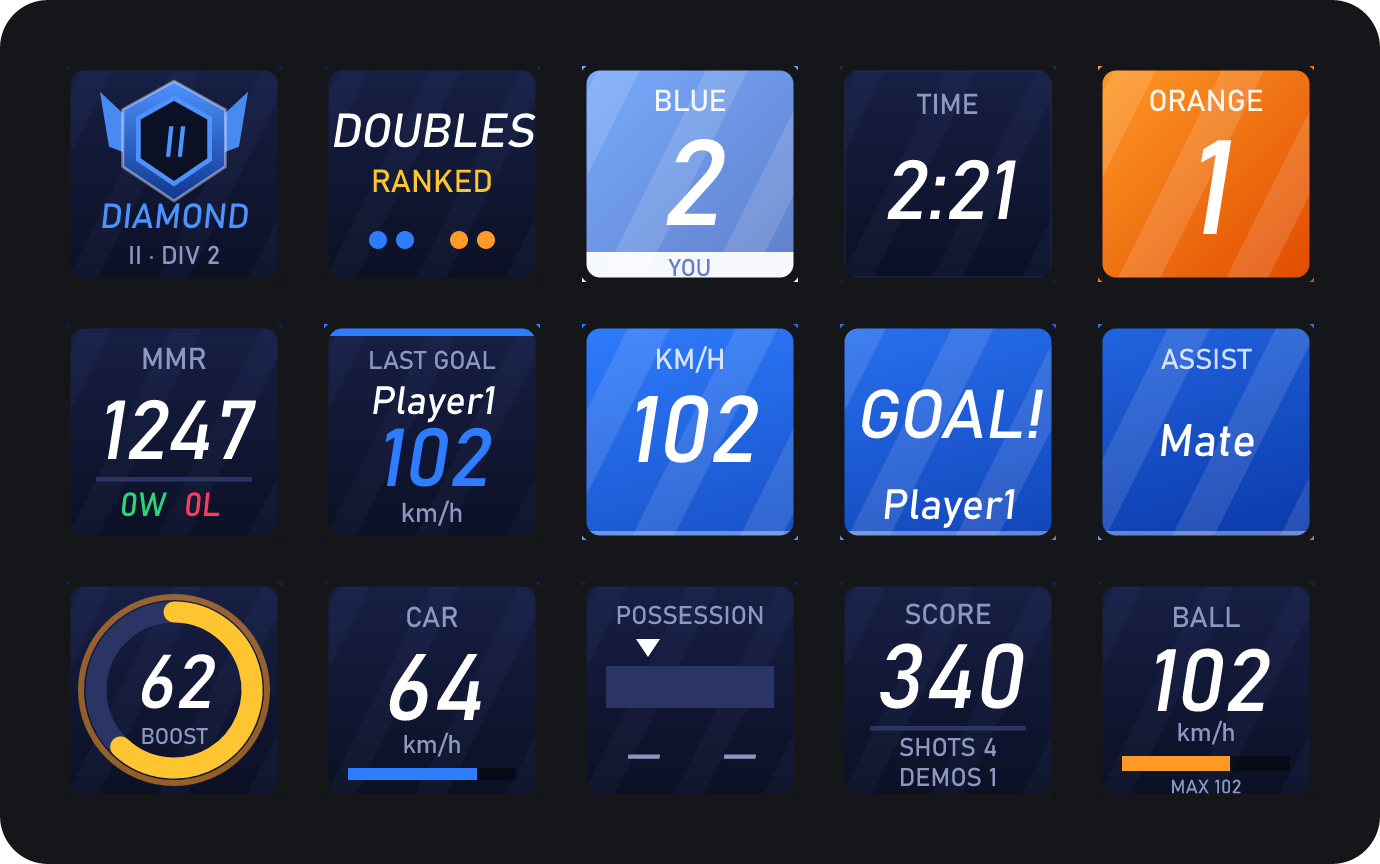
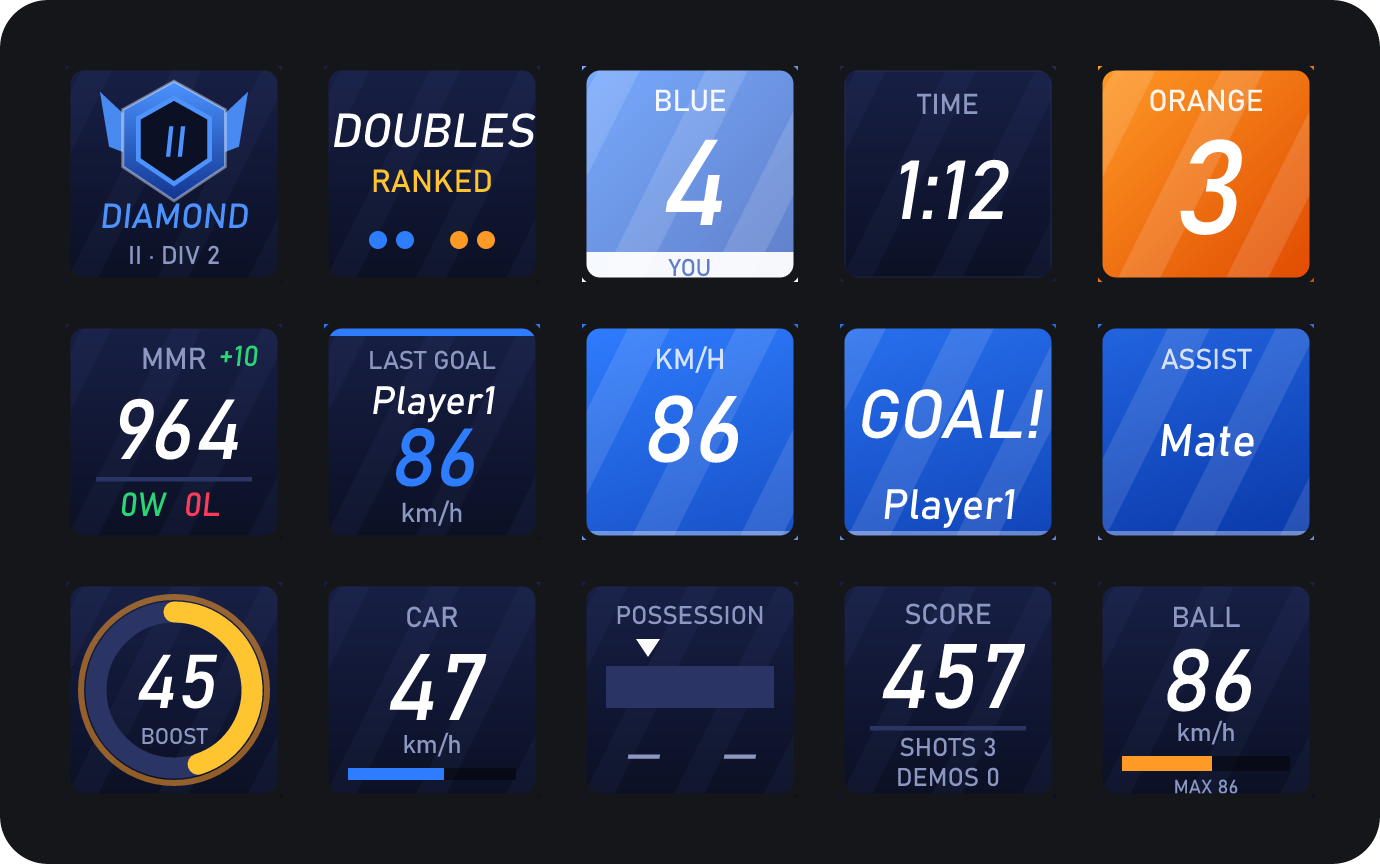
Screenshots: use real match numbers (rank, MMR, score, speeds, team colours), add the black-club case

diff --git a/tools/preview.ts b/tools/preview.ts
@@ -21,7 +21,7 @@ const state = (over: { blue?: number; orange?: number; time?: number; ot?: boole
 	Event: "UpdateState",
 	Data: {
 		MatchGuid: "G",
-		Players: [P("Player1", 0, { ...(over.me ?? { Goals: 1, Assists: 0, Saves: 2 }), Score: 340, Shots: 4, Demos: 1, Boost: 62, Speed: 64, bBoosting: true, bSupersonic: false, ...(over.car ?? {}) }), P("Mate", 0), P("Rival", 1), P("Rival2", 1)],
+		Players: [P("Player1", 0, { ...(over.me ?? { Goals: 3, Assists: 0, Saves: 1 }), Score: 457, Shots: 3, Demos: 0, Boost: 45, Speed: 47, bBoosting: true, bSupersonic: false, ...(over.car ?? {}) }), P("Mate", 0), P("Rival", 1), P("Rival2", 1)],
 		Game: {
 			Teams: [
 				{ Name: "Blue", TeamNum: 0, Score: over.blue ?? 0 },
@@ -50,7 +50,7 @@ interface Scenario {
 
 const SETTINGS: Partial<GlobalSettings> = {
 	lang: "en",
-	ranks: { doubles: { tier: 14, div: 2, mmr: 1247 }, duel: { tier: 19, div: 1, mmr: 1512 }, standard: { tier: 22, div: 1, mmr: 1890 } },
+	ranks: { doubles: { tier: 14, div: 2, mmr: 964 }, snowday: { tier: 5, div: 3, mmr: 447 } }, // Diamond II 954 → 964 after a win; Snow Day Silver II, division III
 };
 
 const scenarios: Scenario[] = [
@@ -67,9 +67,9 @@ const scenarios: Scenario[] = [
 		build: (s) => {
 			s.setGameRunning(true);
 			s.setConnected(true);
-			s.handle(state({ blue: 2, orange: 1, time: 141, ball: 68 }));
-			s.handle({ Event: "GoalScored", Data: { GoalSpeed: 95, Scorer: { Name: "Mate", TeamNum: 0 } } });
-			s.handle(state({ blue: 2, orange: 1, time: 141, ball: 68 }));
+			s.handle(state({ blue: 4, orange: 3, time: 72, ball: 78 }));
+s.handle({ Event: "GoalScored", Data: { GoalSpeed: 81, Scorer: { Name: "Mate", TeamNum: 0 } } });
+s.handle(state({ blue: 4, orange: 3, time: 72, ball: 78 }));
 		},
 		at: 6000,
 	},
@@ -78,8 +78,8 @@ const scenarios: Scenario[] = [
 		build: (s) => {
 			s.setGameRunning(true);
 			s.setConnected(true);
-			s.handle(state({ blue: 2, orange: 1, time: 141 }));
-			s.handle({ Event: "GoalScored", Data: { GoalSpeed: 102, GoalTime: 90, Scorer: { Name: "Player1", TeamNum: 0 }, Assister: { Name: "Mate", TeamNum: 0 } } });
+			s.handle(state({ blue: 4, orange: 3, time: 72 }));
+s.handle({ Event: "GoalScored", Data: { GoalSpeed: 86, GoalTime: 20, Scorer: { Name: "Player1", TeamNum: 0 }, Assister: { Name: "Mate", TeamNum: 0 } } });
 		},
 		at: 700,
 	},
@@ -98,8 +98,8 @@ const scenarios: Scenario[] = [
 		build: (s) => {
 			s.setGameRunning(true);
 			s.setConnected(true);
-			s.handle(state({ blue: 1, orange: 1, time: 200, ball: 32 }));
-			s.handle({ Event: "StatfeedEvent", Data: { EventName: "Demolish", Type: "Demolition", MainTarget: { Name: "Player1", TeamNum: 0 }, SecondaryTarget: { Name: "Rival", TeamNum: 1 } } });
+			s.handle(state({ blue: 3, orange: 3, time: 96, ball: 78, car: { Demos: 1 } }));
+s.handle({ Event: "StatfeedEvent", Data: { EventName: "Demolish", Type: "Demolition", MainTarget: { Name: "Player1", TeamNum: 0 }, SecondaryTarget: { Name: "Rival", TeamNum: 1 } } });
 		},
 		at: 900,
 	},
@@ -184,12 +184,12 @@ const scenarios: Scenario[] = [
 		build: (s, clock) => {
 			s.setGameRunning(true);
 			s.setConnected(true);
-			const car = { Speed: 82.8, Boost: 18, bBoosting: true, bSupersonic: true, Score: 340, Shots: 4, Demos: 1 };
+			const car = { Speed: 82.8, Boost: 18, bBoosting: true, bSupersonic: true, Score: 457, Shots: 3, Demos: 0 };
 			s.handle({ Event: "RoundStarted", Data: {} });
 			// 6 s of blue touching the ball last, then 4 s of orange (the store credits the time between updates)
 			for (let i = 0; i < 100; i++) {
 				clock.t += 100;
-				s.handle(state({ blue: 2, orange: 1, time: 141, ball: 96, car, ballTeam: i < 60 ? 0 : 1 }));
+				s.handle(state({ blue: 4, orange: 3, time: 72, ball: 78, car, ballTeam: i < 60 ? 0 : 1 }));
 			}
 		},
 	},
@@ -201,14 +201,15 @@ const scenarios: Scenario[] = [
 			s.setConnected(true);
 			s.handle({ Event: "RoundStarted", Data: {} });
 			const msg = (i: number): RLMessage => {
-				const m = state({ blue: 1, orange: 2, time: 95, ball: 70, ballTeam: i < 55 ? 1 : 0, car: { Speed: 71, Boost: 43, bBoosting: false, bSupersonic: false, Score: 210, Shots: 3, Demos: 1 } });
+				const m = state({ blue: 3, orange: 4, time: 72, ball: 78, ballTeam: i < 55 ? 1 : 0, car: { Speed: 47, Boost: 45, bBoosting: false, bSupersonic: false, Score: 457, Shots: 3, Demos: 0 } });
 				// the user plays ORANGE (team 1); the blue side is a BLACK team, as some players set it
 				m.Data.Players[0].TeamNum = 1;
 				m.Data.Players[1].TeamNum = 1;
 				m.Data.Players[2].TeamNum = 0;
 				m.Data.Players[3].TeamNum = 0;
-				m.Data.Game.Teams[0].ColorPrimary = "1A1A1A";
-				m.Data.Game.Teams[1].ColorPrimary = "FF9A26";
+				m.Data.Game.Teams[0].ColorPrimary = "262626";
+m.Data.Game.Teams[0].Name = "Club";
+m.Data.Game.Teams[1].ColorPrimary = "C26418";
 				m.Data.Game.Target = { Name: "Rival", TeamNum: 0 }; // the camera may show anybody at the start
 				return m;
 			};
@@ -216,9 +217,7 @@ const scenarios: Scenario[] = [
 				clock.t += 100;
 				s.handle(msg(i));
 			}
-			s.handle({ Event: "GoalScored", Data: { GoalSpeed: 88, GoalTime: 40, Scorer: { Name: "Player1", TeamNum: 1 } } });
-		},
-		at: 500,
+			},
 	},
 	{
 		name: "15-polish-mph",
@@ -226,8 +225,8 @@ const scenarios: Scenario[] = [
 		build: (s) => {
 			s.setGameRunning(true);
 			s.setConnected(true);
-			s.handle(state({ blue: 2, orange: 1, time: 141, ball: 90 }));
-			s.handle({ Event: "GoalScored", Data: { GoalSpeed: 102, Scorer: { Name: "Player1", TeamNum: 0 }, Assister: { Name: "Mate", TeamNum: 0 } } });
+			s.handle(state({ blue: 4, orange: 3, time: 72, ball: 78 }));
+s.handle({ Event: "GoalScored", Data: { GoalSpeed: 86, Scorer: { Name: "Player1", TeamNum: 0 }, Assister: { Name: "Mate", TeamNum: 0 } } });
 		},
 		at: 900,
 	},
@@ -237,7 +236,7 @@ const scenarios: Scenario[] = [
 		build: (s) => {
 			s.setGameRunning(true);
 			s.setConnected(true);
-			s.handle(state({ blue: 1, orange: 0, time: 210, ball: 40, playlist: 2 }));
+			s.handle(state({ blue: 4, orange: 3, time: 72, ball: 78, playlist: 2 }));
 		},
 		at: 300,
 	},
@@ -277,7 +276,14 @@ for (const sc of scenarios) {
 	const store = new MatchStore(() => clock.t);
 	sc.build(store, clock);
 	clock.t += sc.at ?? 0;
-	const ctx: RenderCtx = { store, settings: mergeSettings({ ...SETTINGS, ...sc.settings }), now: clock.t, restartHint: !!sc.restartHint };
+	const ctx: RenderCtx = {
+		store,
+		settings: mergeSettings({ ...SETTINGS, ...sc.settings }),
+		now: clock.t,
+		restartHint: !!sc.restartHint,
+		// what the game log gave: ranked doubles 954 → 964 after a win (+10); casual 1048
+		autoMmr: { 11: { mmr: 964, at: "2026-09-20T15:00:00Z", delta: 10 }, 2: { mmr: 1048, at: "2026-09-20T15:00:00Z" } },
+	};
 	const svg = deckSvg(ctx);
 	const png = new Resvg(svg, { fitTo: { mode: "zoom", value: SCALE }, font: { loadSystemFonts: true, defaultFontFamily: "Bahnschrift" } }).render().asPng();
 	fs.writeFileSync(path.join(OUT, `${sc.name}.png`), png);

diff --git a/README.pl.md b/README.pl.md
@@ -23,9 +23,12 @@ sama przełącza Stream Decka na swój profil, gdy gra startuje, i wraca do popr
     <td align="center"><img src="docs/screenshots/unranked.png" alt="Mecz towarzyski pokazany jako bez rankingu" width="360"><br><sub>Mecz towarzyski: <b>UNRANKED</b> zamiast rangi</sub></td>
     <td align="center"><img src="docs/screenshots/polish.png" alt="Ten sam pokład po polsku, prędkość w mph" width="360"><br><sub>Interfejs po polsku, prędkość w mph (oba to ustawienia)</sub></td>
   </tr>
+  <tr>
+    <td align="center" colspan="2"><img src="docs/screenshots/black-club.png" alt="Drużyna pomarańczowa przeciw czarnemu klubowi, kolory z gry" width="360"><br><sub>Kolory drużyn pochodzą z gry: tu pomarańczowi przeciw czarnemu klubowi</sub></td>
+  </tr>
 </table>
 
-<sub>Obrazy to rendery z symulowanych danych meczu (generuje je `npm run preview`), nie dane prawdziwych graczy.</sub>
+<sub>Rendery generowane przez `npm run preview`. Liczby (MMR, ranga, wynik, punkty, prędkości, kolory drużyn) pochodzą z prawdziwych meczów; nicki graczy to zamienniki.</sub>
 
 
 ## Instalacja

diff --git a/README.md b/README.md
@@ -24,9 +24,12 @@ game starts, and switches back when the game closes.
     <td align="center"><img src="docs/screenshots/unranked.png" alt="Casual match shown as unranked" width="360"><br><sub>Casual match: <b>UNRANKED</b> instead of a rank</sub></td>
     <td align="center"><img src="docs/screenshots/polish.png" alt="The same deck in Polish with miles per hour" width="360"><br><sub>Polish interface, speed in mph (both are settings)</sub></td>
   </tr>
+  <tr>
+    <td align="center" colspan="2"><img src="docs/screenshots/black-club.png" alt="Orange team against a black club, colours taken from the game" width="360"><br><sub>Team colours come from the game: here orange against a black club</sub></td>
+  </tr>
 </table>
 
-<sub>The images are renders from simulated match data (generated by `npm run preview`), not from real players.</sub>
+<sub>Renders generated by `npm run preview`. The numbers (MMR, rank, score, points, speeds, team colours) come from real matches; player names are placeholders.</sub>
 
 
 ## Install
